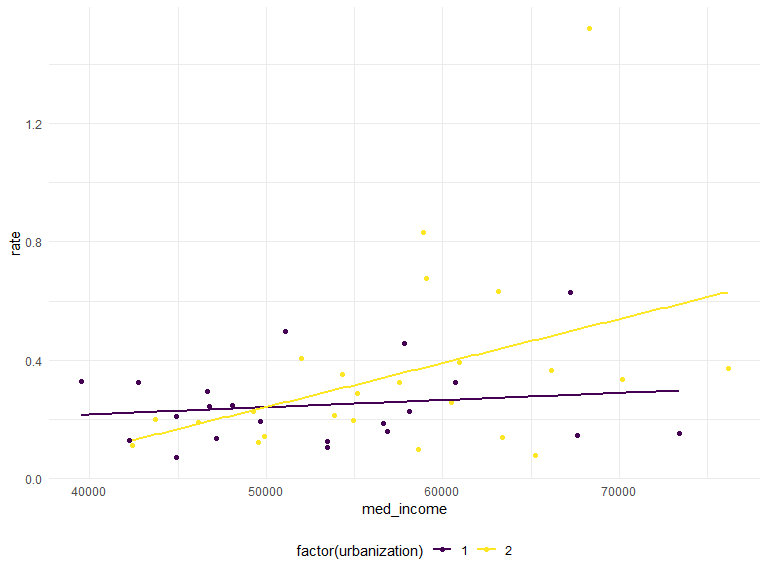
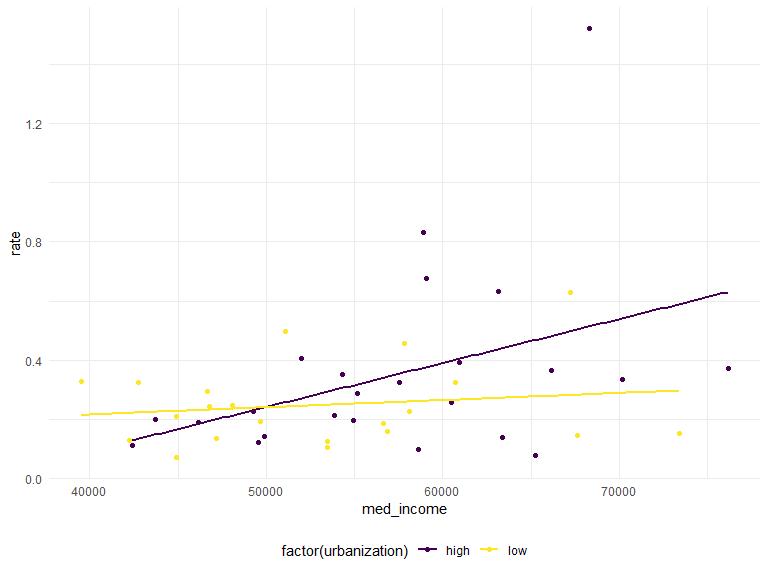
again

diff --git a/P8130_Final_Project.md b/P8130_Final_Project.md
@@ -197,16 +197,16 @@ use 1 and 2 to denote the level low and high
 ``` r
 hc_df = 
   hc_df %>% 
-  mutate(
-    unemployment = case_when(
-      unemployment == "low" ~ 1,
-      unemployment == "high" ~ 2)
-  ) %>% 
-  mutate(
-    urbanization = case_when(
-      urbanization == "low" ~ 1,
-      urbanization == "high" ~ 2)
-  ) %>% 
+  #mutate(
+  #  unemployment = case_when(
+  #    unemployment == "low" ~ 1,
+  #    unemployment == "high" ~ 2)
+  #) %>% 
+  #mutate(
+  #  urbanization = case_when(
+  #    urbanization == "low" ~ 1,
+  #    urbanization == "high" ~ 2)
+  #) %>% 
   mutate(urbanization = as.factor(urbanization),
          unemployment = as.factor(unemployment)) %>% 
   select(-state)
@@ -579,9 +579,9 @@ summary(unemployment)
     ## -0.22934 -0.15510 -0.07308  0.04398  1.22390 
     ## 
     ## Coefficients:
-    ##                Estimate Std. Error t value Pr(>|t|)    
-    ## (Intercept)    0.306645   0.054246   5.653 1.17e-06 ***
-    ## unemployment2 -0.008248   0.075877  -0.109    0.914    
+    ##                 Estimate Std. Error t value Pr(>|t|)    
+    ## (Intercept)     0.298398   0.053054   5.624 1.28e-06 ***
+    ## unemploymentlow 0.008248   0.075877   0.109    0.914    
     ## ---
     ## Signif. codes:  0 '***' 0.001 '**' 0.01 '*' 0.05 '.' 0.1 ' ' 1
     ## 
@@ -605,9 +605,9 @@ summary(unemployment_)
     ## -1.14546 -0.52433 -0.03384  0.31838  1.94753 
     ## 
     ## Coefficients:
-    ##               Estimate Std. Error t value Pr(>|t|)    
-    ## (Intercept)    -1.3114     0.1380  -9.501 3.99e-12 ***
-    ## unemployment2  -0.2159     0.1931  -1.118     0.27    
+    ##                 Estimate Std. Error t value Pr(>|t|)    
+    ## (Intercept)      -1.5273     0.1350 -11.313 1.79e-14 ***
+    ## unemploymentlow   0.2159     0.1931   1.118     0.27    
     ## ---
     ## Signif. codes:  0 '***' 0.001 '**' 0.01 '*' 0.05 '.' 0.1 ' ' 1
     ## 
@@ -633,9 +633,9 @@ summary(urbanization)
     ## -0.27357 -0.13829 -0.05521  0.04889  1.17043 
     ## 
     ## Coefficients:
-    ##               Estimate Std. Error t value Pr(>|t|)    
-    ## (Intercept)    0.24593    0.05426   4.532 4.61e-05 ***
-    ## urbanization2  0.10594    0.07430   1.426    0.161    
+    ##                 Estimate Std. Error t value Pr(>|t|)    
+    ## (Intercept)      0.35187    0.05076   6.932 1.61e-08 ***
+    ## urbanizationlow -0.10594    0.07430  -1.426    0.161    
     ## ---
     ## Signif. codes:  0 '***' 0.001 '**' 0.01 '*' 0.05 '.' 0.1 ' ' 1
     ## 
@@ -659,9 +659,9 @@ summary(urbanization_)
     ## -1.23570 -0.39187 -0.01327  0.37117  1.73166 
     ## 
     ## Coefficients:
-    ##               Estimate Std. Error t value Pr(>|t|)    
-    ## (Intercept)    -1.5479     0.1409 -10.987  4.6e-14 ***
-    ## urbanization2   0.2364     0.1929   1.226    0.227    
+    ##                 Estimate Std. Error t value Pr(>|t|)    
+    ## (Intercept)      -1.3114     0.1318  -9.951    1e-12 ***
+    ## urbanizationlow  -0.2364     0.1929  -1.226    0.227    
     ## ---
     ## Signif. codes:  0 '***' 0.001 '**' 0.01 '*' 0.05 '.' 0.1 ' ' 1
     ## 
@@ -1042,10 +1042,10 @@ tidy(fit1)
 ```
 
     ## # A tibble: 2 x 5
-    ##   term          estimate std.error statistic    p.value
-    ##   <chr>            <dbl>     <dbl>     <dbl>      <dbl>
-    ## 1 (Intercept)    0.307      0.0542     5.65  0.00000117
-    ## 2 unemployment2 -0.00825    0.0759    -0.109 0.914
+    ##   term            estimate std.error statistic    p.value
+    ##   <chr>              <dbl>     <dbl>     <dbl>      <dbl>
+    ## 1 (Intercept)      0.298      0.0531     5.62  0.00000128
+    ## 2 unemploymentlow  0.00825    0.0759     0.109 0.914
 
 ``` r
 fit2 <- lm(rate ~ urbanization, data = hc_df)
@@ -1053,10 +1053,10 @@ tidy(fit2)
 ```
 
     ## # A tibble: 2 x 5
-    ##   term          estimate std.error statistic   p.value
-    ##   <chr>            <dbl>     <dbl>     <dbl>     <dbl>
-    ## 1 (Intercept)      0.246    0.0543      4.53 0.0000461
-    ## 2 urbanization2    0.106    0.0743      1.43 0.161
+    ##   term            estimate std.error statistic      p.value
+    ##   <chr>              <dbl>     <dbl>     <dbl>        <dbl>
+    ## 1 (Intercept)        0.352    0.0508      6.93 0.0000000161
+    ## 2 urbanizationlow   -0.106    0.0743     -1.43 0.161
 
 ``` r
 fit3 <- lm(rate ~ med_income, data = hc_df)
@@ -1122,11 +1122,11 @@ tidy(fit1)
 ```
 
     ## # A tibble: 3 x 5
-    ##   term          estimate std.error statistic p.value
-    ##   <chr>            <dbl>     <dbl>     <dbl>   <dbl>
-    ## 1 (Intercept)     -2.20     0.825      -2.66 0.0110 
-    ## 2 gini_index       5.60     1.84        3.04 0.00408
-    ## 3 unemployment2   -0.103    0.0762     -1.35 0.184
+    ##   term            estimate std.error statistic p.value
+    ##   <chr>              <dbl>     <dbl>     <dbl>   <dbl>
+    ## 1 (Intercept)       -2.30     0.856      -2.68 0.0103 
+    ## 2 gini_index         5.60     1.84        3.04 0.00408
+    ## 3 unemploymentlow    0.103    0.0762      1.35 0.184
 
 ``` r
 fit2 <- update(forward1, . ~ . +urbanization)
@@ -1134,11 +1134,11 @@ tidy(fit2)
 ```
 
     ## # A tibble: 3 x 5
-    ##   term          estimate std.error statistic p.value
-    ##   <chr>            <dbl>     <dbl>     <dbl>   <dbl>
-    ## 1 (Intercept)    -1.66      0.849     -1.95   0.0573
-    ## 2 gini_index      4.27      1.90       2.25   0.0299
-    ## 3 urbanization2   0.0299    0.0787     0.380  0.706
+    ##   term            estimate std.error statistic p.value
+    ##   <chr>              <dbl>     <dbl>     <dbl>   <dbl>
+    ## 1 (Intercept)      -1.63      0.882     -1.85   0.0719
+    ## 2 gini_index        4.27      1.90       2.25   0.0299
+    ## 3 urbanizationlow  -0.0299    0.0787    -0.380  0.706
 
 ``` r
 fit3 <- update(forward1, . ~ . +med_income)
@@ -1197,12 +1197,12 @@ tidy(fit1)
 ```
 
     ## # A tibble: 4 x 5
-    ##   term          estimate std.error statistic    p.value
-    ##   <chr>            <dbl>     <dbl>     <dbl>      <dbl>
-    ## 1 (Intercept)    -8.07      1.47      -5.49  0.00000232
-    ## 2 gini_index      8.90      1.69       5.26  0.00000483
-    ## 3 high_degree     4.99      1.11       4.51  0.0000536 
-    ## 4 unemployment2  -0.0126    0.0661    -0.191 0.849
+    ##   term            estimate std.error statistic    p.value
+    ##   <chr>              <dbl>     <dbl>     <dbl>      <dbl>
+    ## 1 (Intercept)      -8.09      1.47      -5.52  0.00000211
+    ## 2 gini_index        8.90      1.69       5.26  0.00000483
+    ## 3 high_degree       4.99      1.11       4.51  0.0000536 
+    ## 4 unemploymentlow   0.0126    0.0661     0.191 0.849
 
 ``` r
 fit2 <- update(forward2, . ~ . +urbanization)
@@ -1210,12 +1210,12 @@ tidy(fit2)
 ```
 
     ## # A tibble: 4 x 5
-    ##   term          estimate std.error statistic    p.value
-    ##   <chr>            <dbl>     <dbl>     <dbl>      <dbl>
-    ## 1 (Intercept)   -8.10       1.52     -5.34   0.00000374
-    ## 2 gini_index     8.81       1.81      4.86   0.0000175 
-    ## 3 high_degree    5.06       1.06      4.77   0.0000237 
-    ## 4 urbanization2  0.00111    0.0642    0.0174 0.986
+    ##   term            estimate std.error statistic    p.value
+    ##   <chr>              <dbl>     <dbl>     <dbl>      <dbl>
+    ## 1 (Intercept)     -8.09       1.53     -5.28   0.00000459
+    ## 2 gini_index       8.81       1.81      4.86   0.0000175 
+    ## 3 high_degree      5.06       1.06      4.77   0.0000237 
+    ## 4 urbanizationlow -0.00111    0.0642   -0.0174 0.986
 
 ``` r
 fit3 <- update(forward2, . ~ . +med_income)
@@ -1266,11 +1266,11 @@ tidy(fit1)
 ```
 
     ## # A tibble: 3 x 5
-    ##   term            estimate  std.error statistic p.value
-    ##   <chr>              <dbl>      <dbl>     <dbl>   <dbl>
-    ## 1 (Intercept)   -0.279     0.246         -1.13   0.264 
-    ## 2 med_income     0.0000102 0.00000418     2.43   0.0194
-    ## 3 unemployment2  0.0376    0.0743         0.506  0.616
+    ##   term              estimate  std.error statistic p.value
+    ##   <chr>                <dbl>      <dbl>     <dbl>   <dbl>
+    ## 1 (Intercept)     -0.242     0.228         -1.06   0.295 
+    ## 2 med_income       0.0000102 0.00000418     2.43   0.0194
+    ## 3 unemploymentlow -0.0376    0.0743        -0.506  0.616
 
 ``` r
 fit2 <- update(income_reg, . ~ . +urbanization)
@@ -1278,11 +1278,11 @@ tidy(fit2)
 ```
 
     ## # A tibble: 3 x 5
-    ##   term             estimate  std.error statistic p.value
-    ##   <chr>               <dbl>      <dbl>     <dbl>   <dbl>
-    ## 1 (Intercept)   -0.212      0.226         -0.937  0.354 
-    ## 2 med_income     0.00000867 0.00000417     2.08   0.0437
-    ## 3 urbanization2  0.0656     0.0742         0.885  0.381
+    ##   term               estimate  std.error statistic p.value
+    ##   <chr>                 <dbl>      <dbl>     <dbl>   <dbl>
+    ## 1 (Intercept)     -0.146      0.244         -0.598  0.553 
+    ## 2 med_income       0.00000867 0.00000417     2.08   0.0437
+    ## 3 urbanizationlow -0.0656     0.0742        -0.885  0.381
 
 ``` r
 fit3 <- update(income_reg, . ~ . +gini_index)
@@ -1341,12 +1341,12 @@ tidy(fit1)
 ```
 
     ## # A tibble: 4 x 5
-    ##   term            estimate  std.error statistic  p.value
-    ##   <chr>              <dbl>      <dbl>     <dbl>    <dbl>
-    ## 1 (Intercept)   -2.86      0.801         -3.58  0.000911
-    ## 2 med_income     0.0000105 0.00000375     2.81  0.00760 
-    ## 3 gini_index     5.74      1.71           3.36  0.00170 
-    ## 4 unemployment2 -0.0578    0.0724        -0.798 0.430
+    ##   term              estimate  std.error statistic  p.value
+    ##   <chr>                <dbl>      <dbl>     <dbl>    <dbl>
+    ## 1 (Intercept)     -2.92      0.824         -3.55  0.000994
+    ## 2 med_income       0.0000105 0.00000375     2.81  0.00760 
+    ## 3 gini_index       5.74      1.71           3.36  0.00170 
+    ## 4 unemploymentlow  0.0578    0.0724         0.798 0.430
 
 ``` r
 fit2 <- update(forward1, . ~ . +urbanization)
@@ -1354,12 +1354,12 @@ tidy(fit2)
 ```
 
     ## # A tibble: 4 x 5
-    ##   term            estimate  std.error statistic p.value
-    ##   <chr>              <dbl>      <dbl>     <dbl>   <dbl>
-    ## 1 (Intercept)   -3.00      0.884         -3.39  0.00157
-    ## 2 med_income     0.0000122 0.00000392     3.11  0.00340
-    ## 3 gini_index     5.82      1.80           3.24  0.00240
-    ## 4 urbanization2 -0.0544    0.0766        -0.711 0.481
+    ##   term              estimate  std.error statistic p.value
+    ##   <chr>                <dbl>      <dbl>     <dbl>   <dbl>
+    ## 1 (Intercept)     -3.05      0.924         -3.30  0.00201
+    ## 2 med_income       0.0000122 0.00000392     3.11  0.00340
+    ## 3 gini_index       5.82      1.80           3.24  0.00240
+    ## 4 urbanizationlow  0.0544    0.0766         0.711 0.481
 
 ``` r
 fit3 <- update(forward1, . ~ . +high_degree)
@@ -1574,15 +1574,15 @@ summary(inter_model_aic1)
     ## -0.34687 -0.11903 -0.00746  0.10249  0.49588 
     ## 
     ## Coefficients:
-    ##                                      Estimate Std. Error t value Pr(>|t|)
-    ## (Intercept)                           -16.560     46.948  -0.353    0.726
-    ## high_degree                            16.951     53.020   0.320    0.751
-    ## gini_index                             32.101    103.364   0.311    0.758
-    ## urbanization2                          -7.898     63.278  -0.125    0.901
-    ## high_degree:gini_index                -31.646    117.132  -0.270    0.789
-    ## high_degree:urbanization2               6.689     71.791   0.093    0.926
-    ## gini_index:urbanization2               10.026    137.937   0.073    0.942
-    ## high_degree:gini_index:urbanization2   -6.159    156.822  -0.039    0.969
+    ##                                        Estimate Std. Error t value Pr(>|t|)
+    ## (Intercept)                             -24.458     42.426  -0.576    0.568
+    ## high_degree                              23.640     48.403   0.488    0.628
+    ## gini_index                               42.127     91.338   0.461    0.647
+    ## urbanizationlow                           7.898     63.278   0.125    0.901
+    ## high_degree:gini_index                  -37.804    104.274  -0.363    0.719
+    ## high_degree:urbanizationlow              -6.689     71.791  -0.093    0.926
+    ## gini_index:urbanizationlow              -10.026    137.937  -0.073    0.942
+    ## high_degree:gini_index:urbanizationlow    6.159    156.822   0.039    0.969
     ## 
     ## Residual standard error: 0.1989 on 37 degrees of freedom
     ## Multiple R-squared:  0.4745, Adjusted R-squared:  0.3751 
@@ -1606,15 +1606,15 @@ summary(inter_model_aic2)
     ## -0.37590 -0.12913 -0.01831  0.07931  0.46731 
     ## 
     ## Coefficients:
-    ##                                      Estimate Std. Error t value Pr(>|t|)
-    ## (Intercept)                            -1.116     37.799  -0.030    0.977
-    ## high_degree                            -1.418     42.829  -0.033    0.974
-    ## gini_index                             -3.278     82.397  -0.040    0.968
-    ## unemployment2                          -7.950     55.327  -0.144    0.887
-    ## high_degree:gini_index                 10.511     93.545   0.112    0.911
-    ## high_degree:unemployment2               6.910     62.869   0.110    0.913
-    ## gini_index:unemployment2               13.100    120.584   0.109    0.914
-    ## high_degree:gini_index:unemployment2  -10.190    137.205  -0.074    0.941
+    ##                                        Estimate Std. Error t value Pr(>|t|)
+    ## (Intercept)                             -9.0664    40.4019  -0.224    0.824
+    ## high_degree                              5.4920    46.0244   0.119    0.906
+    ## gini_index                               9.8217    88.0421   0.112    0.912
+    ## unemploymentlow                          7.9499    55.3273   0.144    0.887
+    ## high_degree:gini_index                   0.3214   100.3723   0.003    0.997
+    ## high_degree:unemploymentlow             -6.9098    62.8695  -0.110    0.913
+    ## gini_index:unemploymentlow             -13.1000   120.5844  -0.109    0.914
+    ## high_degree:gini_index:unemploymentlow  10.1895   137.2053   0.074    0.941
     ## 
     ## Residual standard error: 0.1994 on 37 degrees of freedom
     ## Multiple R-squared:  0.4719, Adjusted R-squared:  0.372 
@@ -1637,15 +1637,17 @@ summary(inter_model_income1)
     ## -0.42834 -0.11255 -0.01696  0.07826  0.50533 
     ## 
     ## Coefficients:
-    ##                                       Estimate Std. Error t value Pr(>|t|)
-    ## (Intercept)                          7.561e+00  8.913e+00   0.848    0.402
-    ## med_income                          -1.414e-04  1.727e-04  -0.819    0.418
-    ## gini_index                          -1.686e+01  2.011e+01  -0.838    0.407
-    ## urbanization2                        1.383e+01  1.217e+01   1.137    0.263
-    ## med_income:gini_index                3.271e-04  3.946e-04   0.829    0.412
-    ## med_income:urbanization2            -2.357e-04  2.161e-04  -1.091    0.282
-    ## gini_index:urbanization2            -2.998e+01  2.682e+01  -1.118    0.271
-    ## med_income:gini_index:urbanization2  5.113e-04  4.825e-04   1.060    0.296
+    ##                                         Estimate Std. Error t value Pr(>|t|)   
+    ## (Intercept)                            2.140e+01  8.283e+00   2.583  0.01389 * 
+    ## med_income                            -3.771e-04  1.298e-04  -2.905  0.00616 **
+    ## gini_index                            -4.684e+01  1.774e+01  -2.640  0.01206 * 
+    ## urbanizationlow                       -1.383e+01  1.217e+01  -1.137  0.26287   
+    ## med_income:gini_index                  8.384e-04  2.777e-04   3.019  0.00457 **
+    ## med_income:urbanizationlow             2.357e-04  2.161e-04   1.091  0.28248   
+    ## gini_index:urbanizationlow             2.998e+01  2.682e+01   1.118  0.27082   
+    ## med_income:gini_index:urbanizationlow -5.113e-04  4.825e-04  -1.060  0.29617   
+    ## ---
+    ## Signif. codes:  0 '***' 0.001 '**' 0.01 '*' 0.05 '.' 0.1 ' ' 1
     ## 
     ## Residual standard error: 0.1972 on 37 degrees of freedom
     ## Multiple R-squared:  0.4832, Adjusted R-squared:  0.3854 
@@ -1668,15 +1670,17 @@ summary(inter_model_income2)
     ## -0.37760 -0.10759 -0.01941  0.07814  0.53562 
     ## 
     ## Coefficients:
-    ##                                       Estimate Std. Error t value Pr(>|t|)
-    ## (Intercept)                          1.008e+01  9.272e+00   1.087    0.284
-    ## med_income                          -1.933e-04  1.600e-04  -1.208    0.235
-    ## gini_index                          -2.270e+01  2.074e+01  -1.094    0.281
-    ## unemployment2                        1.319e+01  1.296e+01   1.017    0.316
-    ## med_income:gini_index                4.476e-04  3.588e-04   1.247    0.220
-    ## med_income:unemployment2            -2.138e-04  2.122e-04  -1.008    0.320
-    ## gini_index:unemployment2            -2.796e+01  2.844e+01  -0.983    0.332
-    ## med_income:gini_index:unemployment2  4.507e-04  4.667e-04   0.966    0.340
+    ##                                         Estimate Std. Error t value Pr(>|t|)   
+    ## (Intercept)                            2.326e+01  9.058e+00   2.568  0.01440 * 
+    ## med_income                            -4.071e-04  1.393e-04  -2.921  0.00591 **
+    ## gini_index                            -5.066e+01  1.945e+01  -2.604  0.01317 * 
+    ## unemploymentlow                       -1.319e+01  1.296e+01  -1.017  0.31564   
+    ## med_income:gini_index                  8.984e-04  2.985e-04   3.010  0.00469 **
+    ## med_income:unemploymentlow             2.138e-04  2.122e-04   1.008  0.32013   
+    ## gini_index:unemploymentlow             2.796e+01  2.844e+01   0.983  0.33188   
+    ## med_income:gini_index:unemploymentlow -4.507e-04  4.667e-04  -0.966  0.34047   
+    ## ---
+    ## Signif. codes:  0 '***' 0.001 '**' 0.01 '*' 0.05 '.' 0.1 ' ' 1
     ## 
     ## Residual standard error: 0.1953 on 37 degrees of freedom
     ## Multiple R-squared:  0.4933, Adjusted R-squared:  0.3975 
